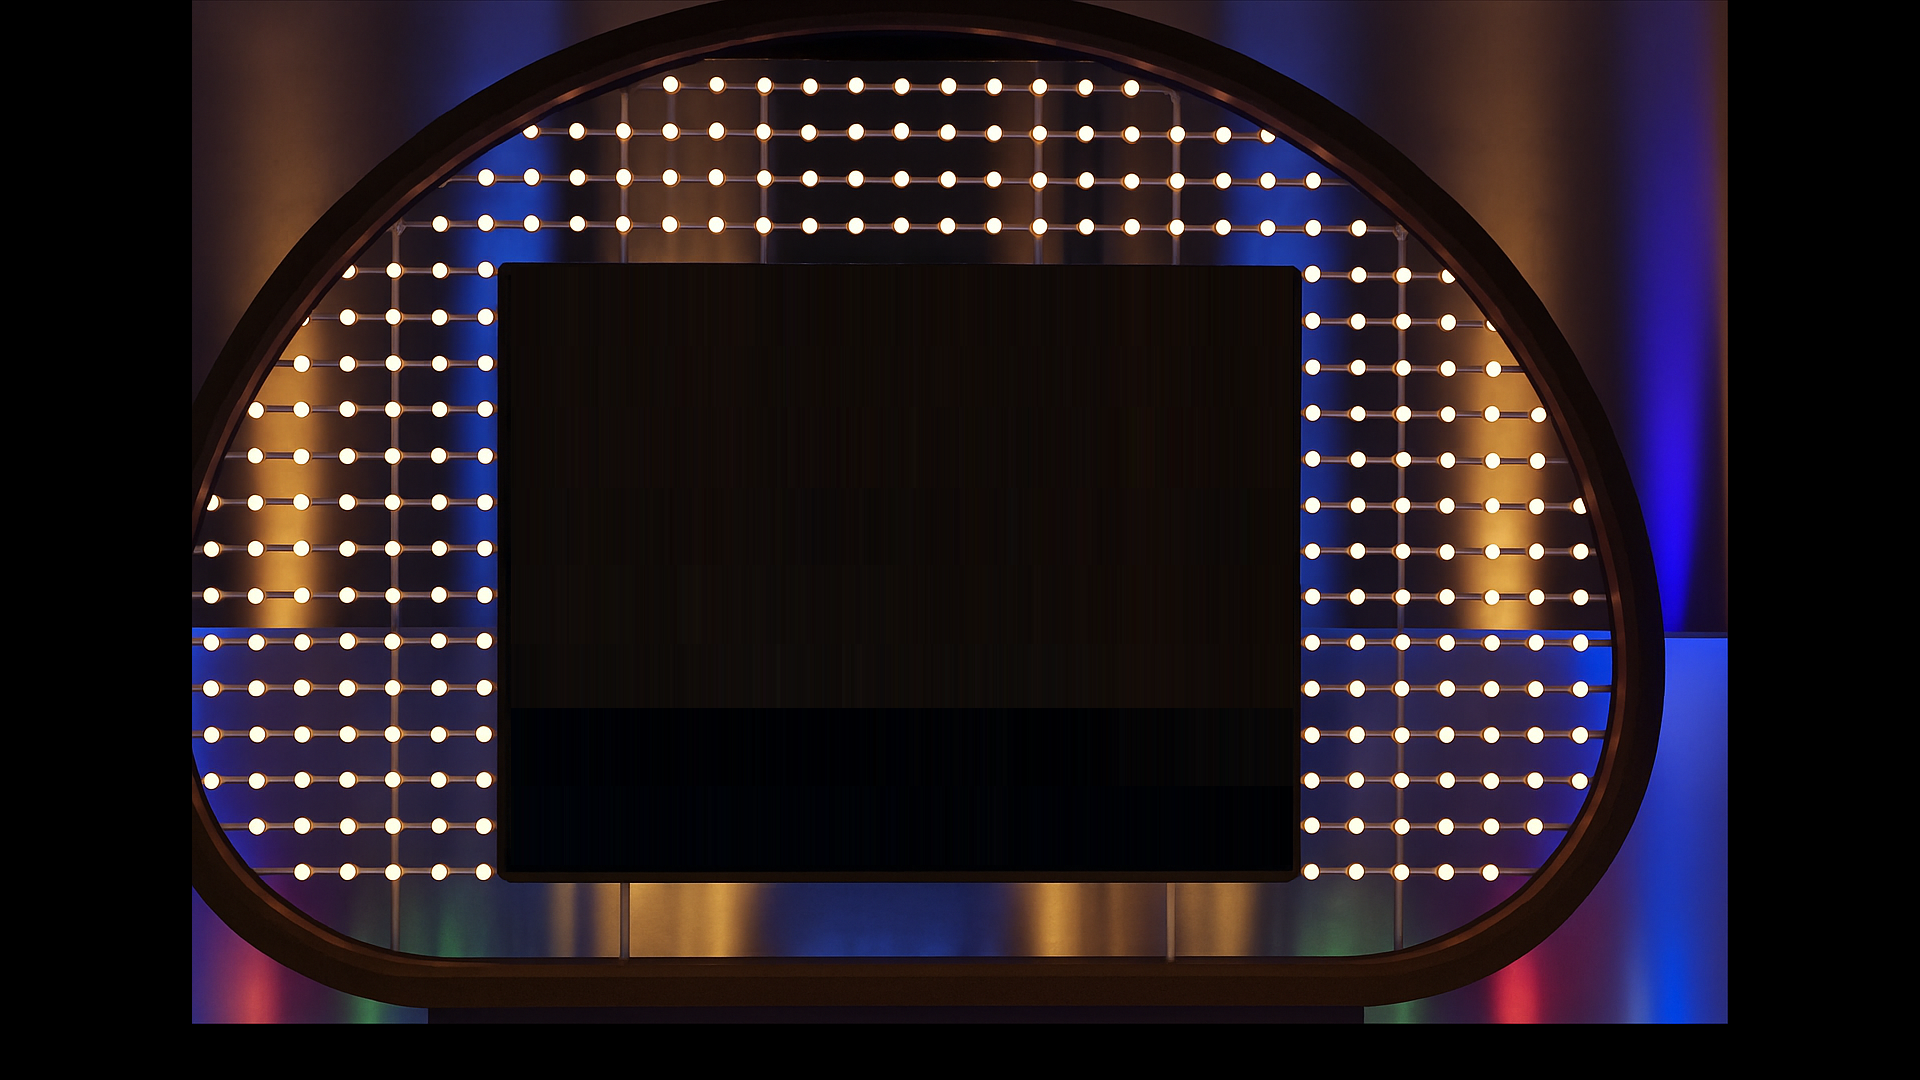
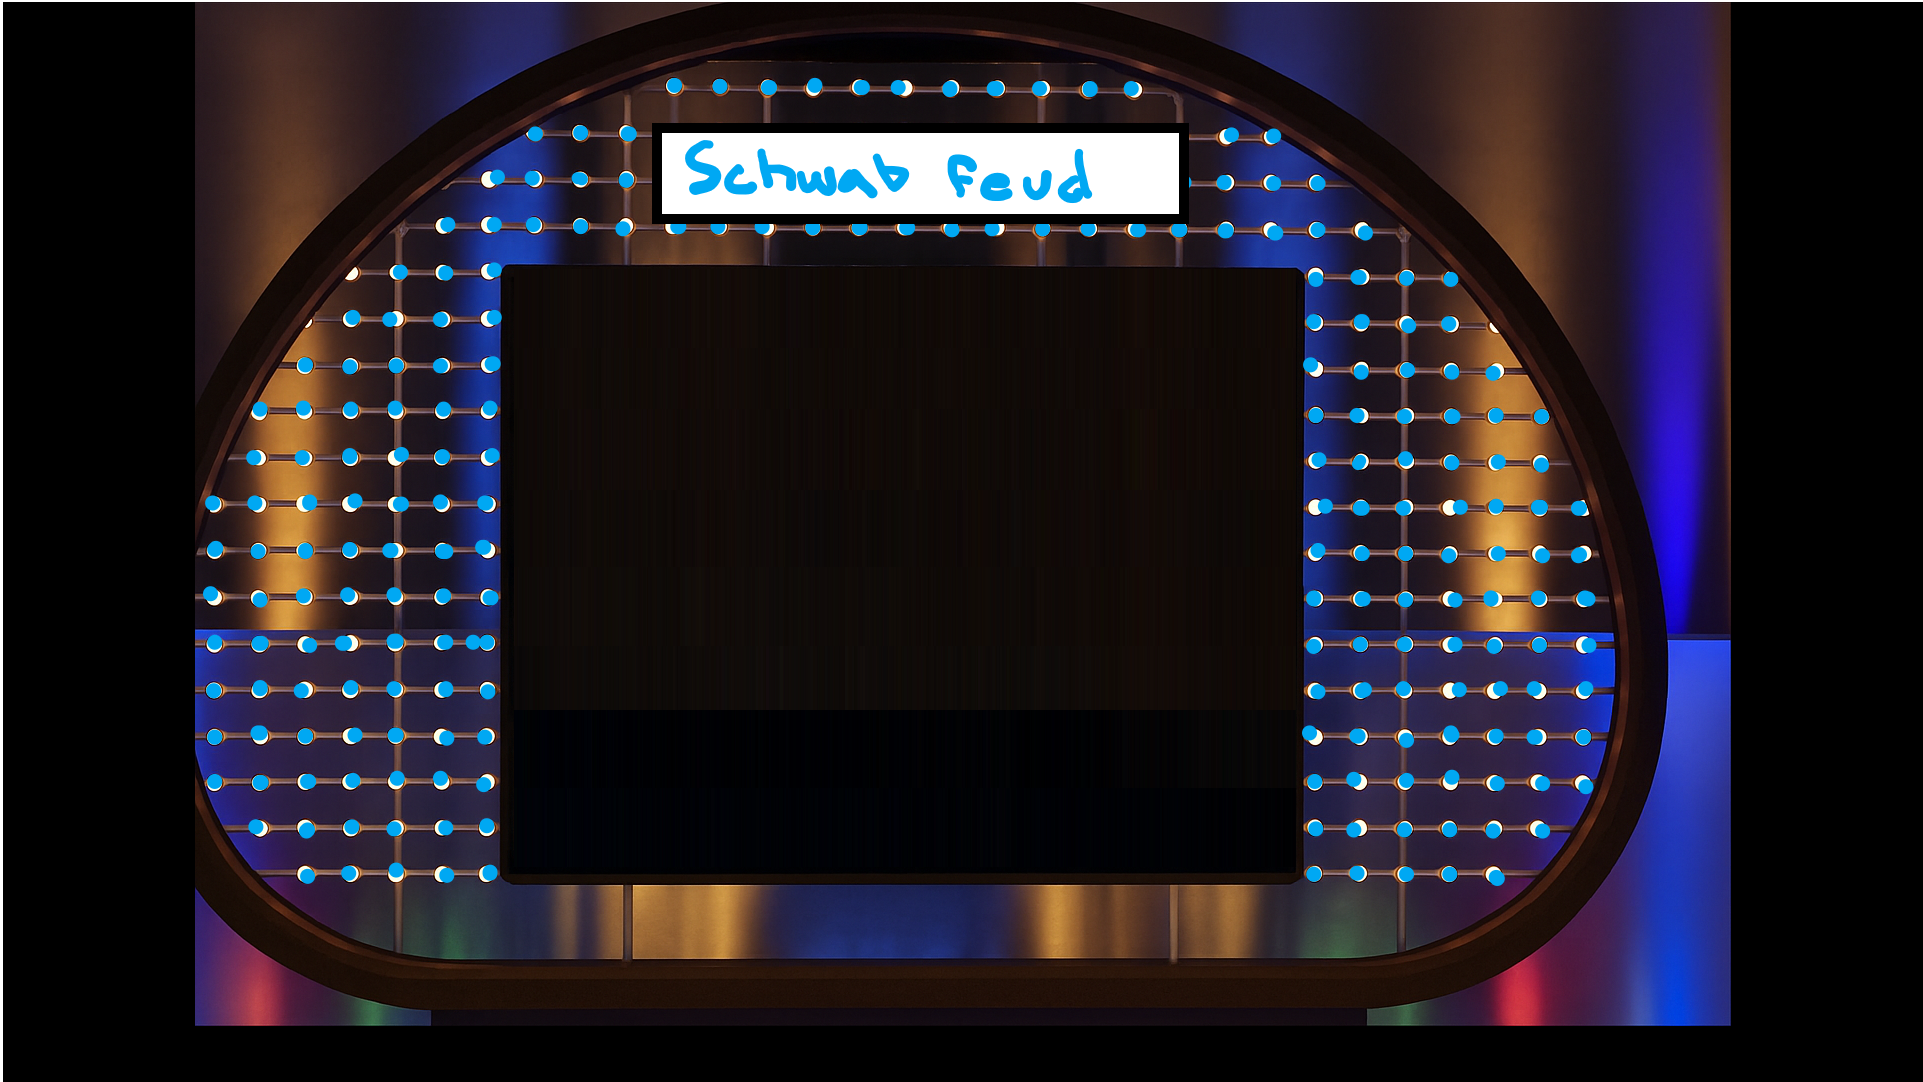
Schwabifying

diff --git a/public/gameboard/index.html b/public/gameboard/index.html
@@ -41,7 +41,7 @@
 			</div>
             <div id="modal" class="modal flex-column">
                 <div class="d-flex justify-content-center">
-                    <img src="/gameboard/indyFeud.png">
+                    <img src="/gameboard/schwab_feud.png">
                 </div>
                 <div class="container border border-5 border-primary">
                 <div class="row row-cols-2 bg-dark text-white">
